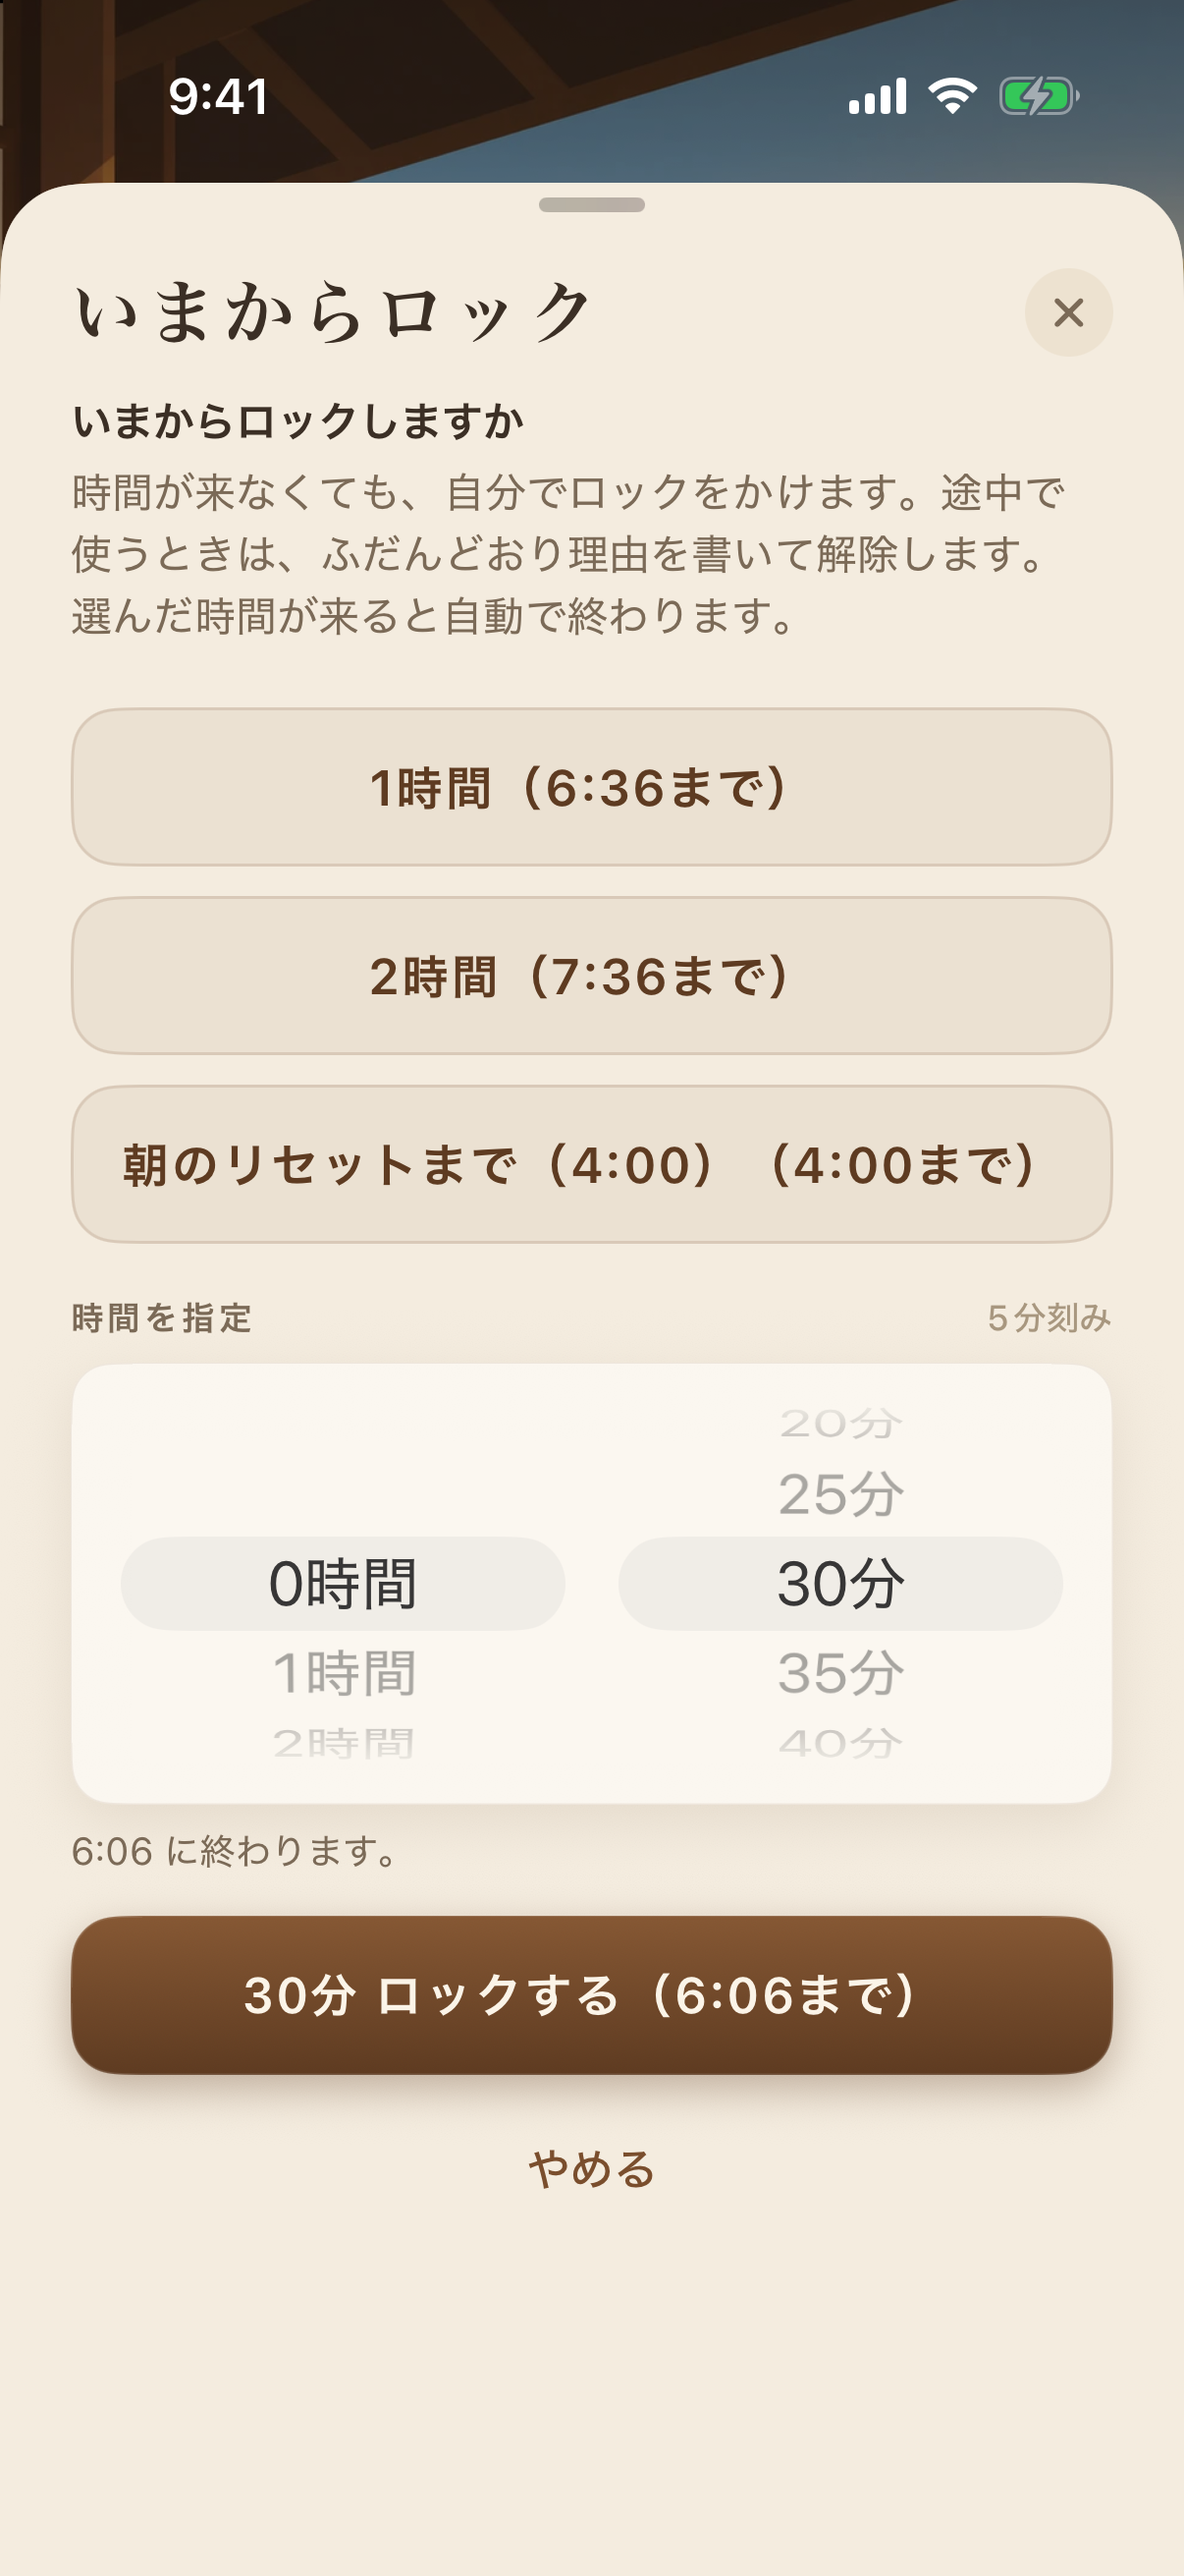
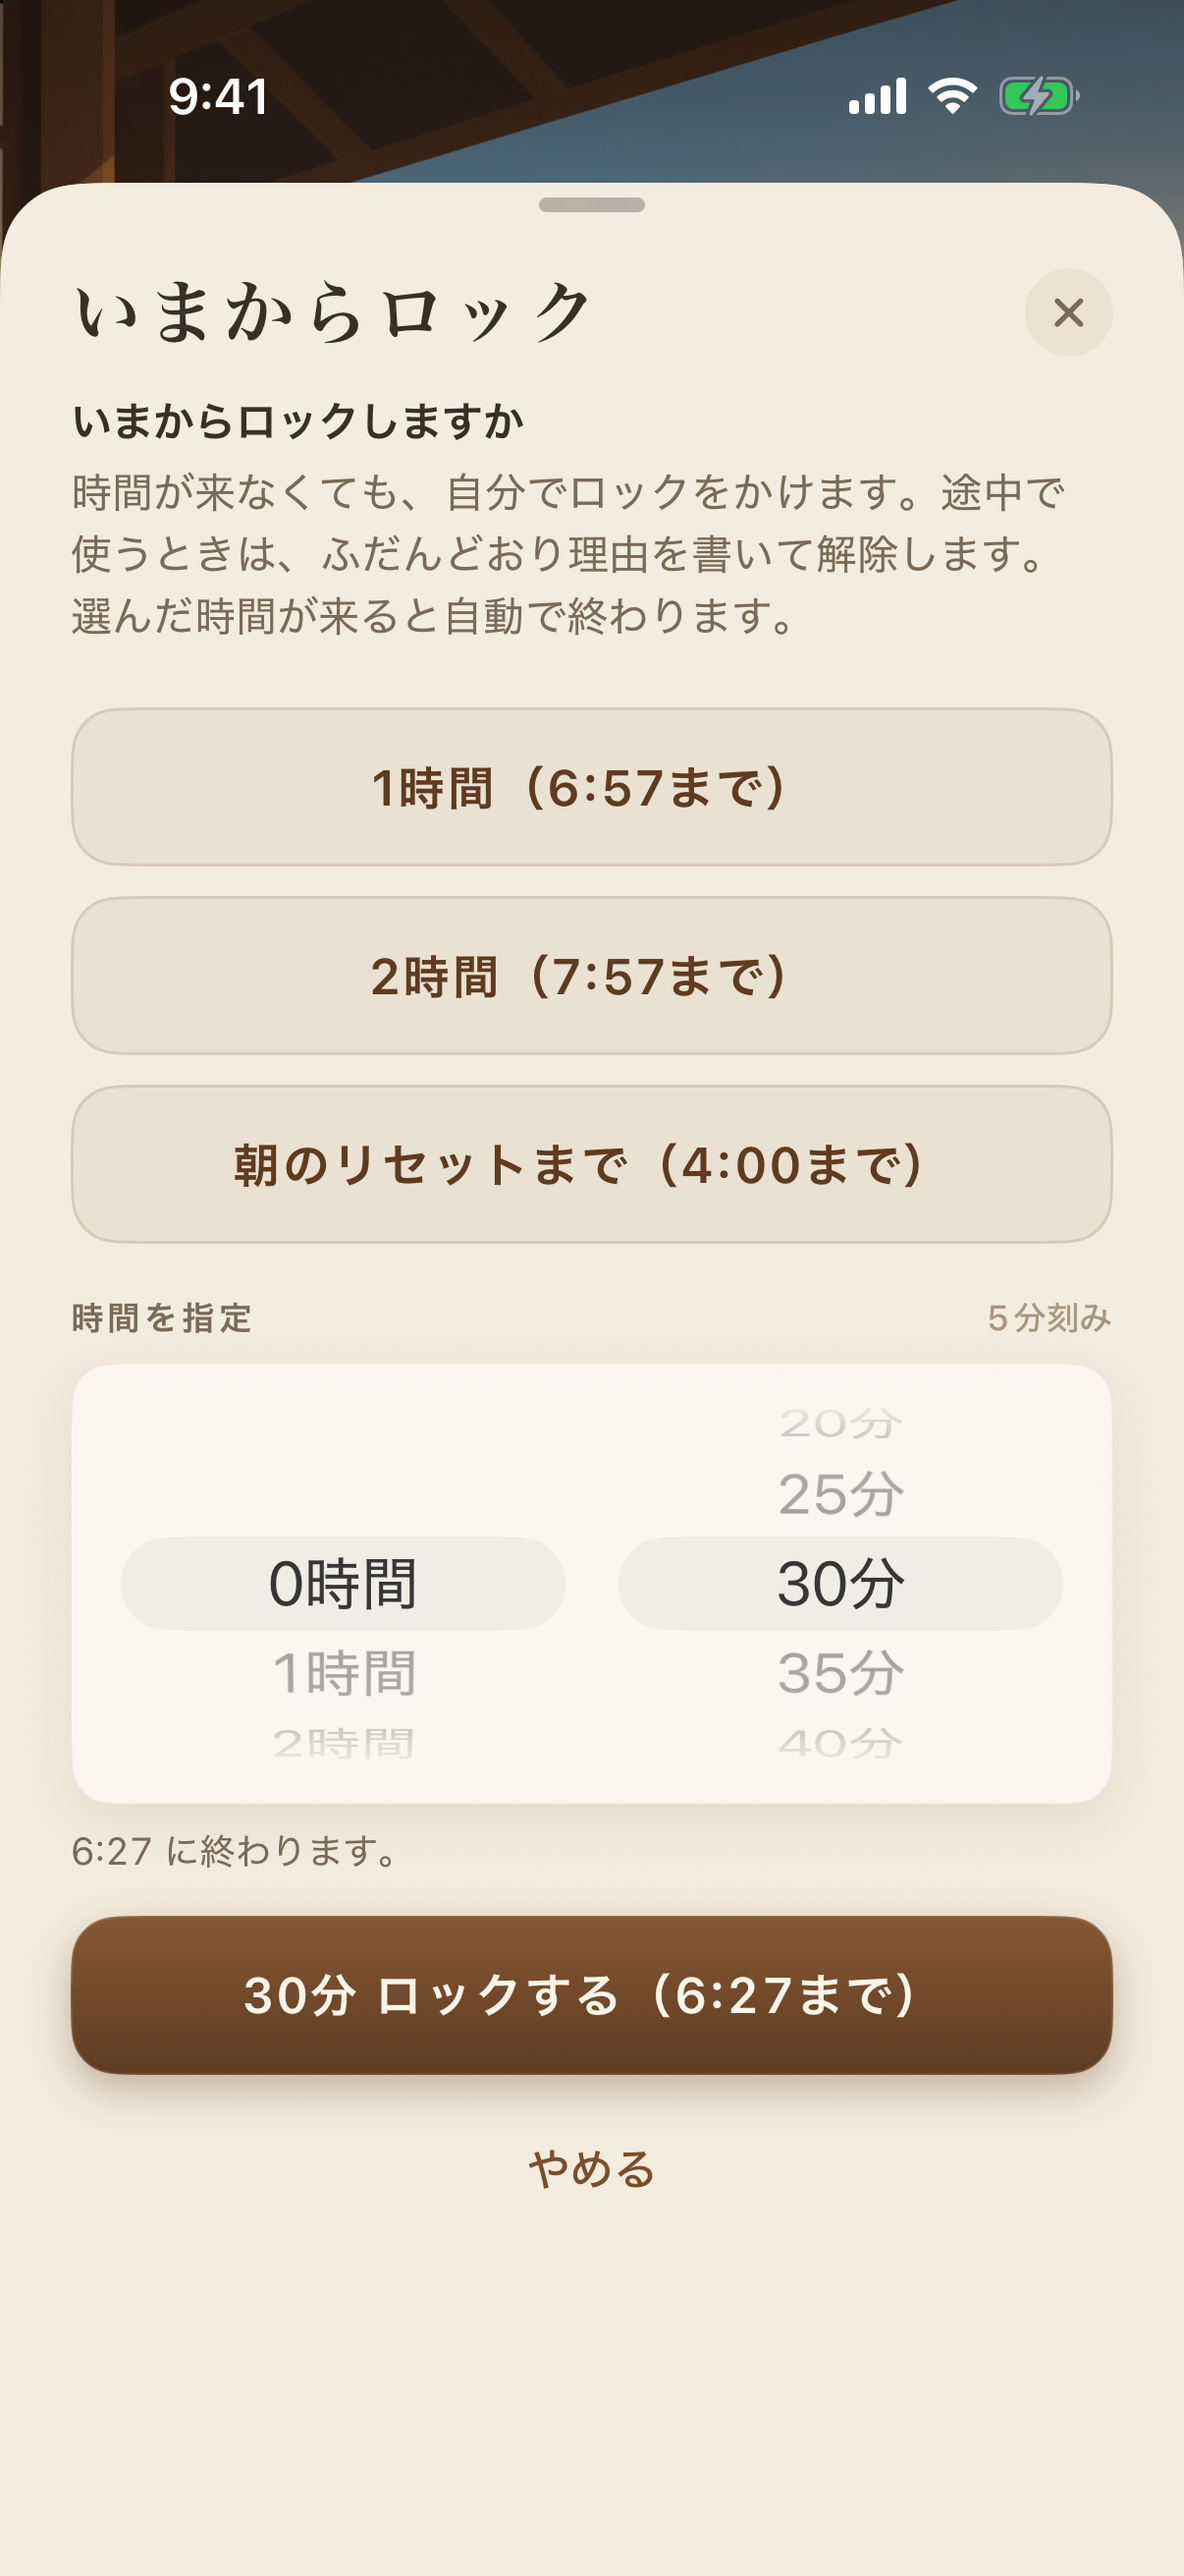
cb05f58 のレビュー指摘を直す: 使い切りの粘着・符号つきの区間差分・印の読み直しほか
- UsageState.exhaustedFor: 期間内で一度使い切ったら段の揺れで外れない（リセットで消え・枠を変えたら効かない）
- LockSpans: 区間の差分は符号つきで足し、合計だけ下限0
- reconcile: 印の直前に shield・時間解除・個別解除を読み直して effective を決め、at は note 内で取る
- LockSpans・AppUnlocks.prune: 読めないファイルは消さず、読めて壊れたものだけ消す
- 記録と開発者向けに daily の登録イベント数・使い切りの印・枠+60超の発火・ロック中の分を出す
- 「朝のリセットまで（4:00）（4:00まで）」の二重表示を直す

diff --git a/Shared/LockSpans.swift b/Shared/LockSpans.swift
@@ -12,7 +12,8 @@ import Foundation
 //     同じ向きの印が重なっても（競合で二重に書いても）、数えるときは「最初の始まり〜次の終わり」だけを使う
 //   - リセット時刻で0に戻る: 今の期間（periodStart）の印だけを数える。期間の頭でロックが効いていたかは
 //     前の期間の最後の印から決め、効いていれば 0 分から数え始める
-//   - 段階イベント（5分刻み）の値で測るので、境目で最大1刻みぶんずれる。区間ごとに下限0
+//   - 段階イベント（5分刻み）の値で測るので、境目で最大1刻みぶんずれる。差し引きの段は揺れる（許可アプリの段が
+//     先に進むと一時的に減って見える）ので、区間の差分は符号つきで足し、合計だけ下限0
 
 /// ロックの効き始め（locked=true）・外れ（false）の印
 struct LockMark: Codable, Equatable {
@@ -46,8 +47,10 @@ enum LockSpans {
         let names = (try? FileManager.default.contentsOfDirectory(atPath: d.path)) ?? []
         return names.filter { $0.hasSuffix(".json") }.compactMap { n in
             let u = d.appendingPathComponent(n)
-            guard let data = try? Data(contentsOf: u), let m = try? JSONDecoder().decode(LockMark.self, from: data) else {
-                try? FileManager.default.removeItem(at: u)   // 読めないものは捨てる
+            // 読めない（端末のロックでデータ保護がかかっている等）ものは消さずに飛ばす。読めて壊れているものだけ捨てる
+            guard let data = try? Data(contentsOf: u) else { return nil }
+            guard let m = try? JSONDecoder().decode(LockMark.self, from: data) else {
+                try? FileManager.default.removeItem(at: u)
                 return nil
             }
             return (u, m)
@@ -58,12 +61,13 @@ enum LockSpans {
     /// 全部の印（古い順）
     static var marks: [LockMark] { entries().map(\.mark) }
 
-    /// reconcile から呼ぶ。effective（ロックが効いていて、時間解除も個別解除もない）が最後の印と違えば印を書く
-    static func note(effective: Bool, usage u: UsageState, now: Date = Date(), route: String) {
+    /// reconcile から呼ぶ。effective（ロックが効いていて、時間解除も個別解除もない）が最後の印と違えば印を書く。
+    /// effective と u は呼ぶ直前に読み直したもの。印の時刻はここで取り直す
+    static func note(effective: Bool, usage u: UsageState, route: String) {
         let es = entries()
         let last = es.last?.mark.locked ?? false
         guard last != effective else { return }
-        let m = LockMark(at: ISO.string(now), periodStart: u.periodStart, locked: effective,
+        let m = LockMark(at: ISO.string(Date()), periodStart: u.periodStart, locked: effective,
                          allMin: u.allMin, allowedMin: u.allowedMin, route: route)
         guard let data = try? JSONEncoder().encode(m) else { return }
         try? data.write(to: dir.appendingPathComponent("\(UUID().uuidString).json"),
@@ -101,13 +105,14 @@ enum LockSpans {
             }
         }
         if state { total += delta(from: from, to: (u.allMin, u.allowedMin), mode: mode) }
-        return max(0, total)
+        return max(0, total)   // 下限0は合計だけ（区間ごとには切らない）
     }
 
+    /// 区間の差分（符号つき。段の揺れで負になることもあり、次の区間で打ち消し合う）
     private static func delta(from a: (all: Int, allowed: Int), to b: (all: Int, allowed: Int), mode: CountMode) -> Int {
         switch mode {
-        case .inclusive: return max(0, b.all - a.all)
-        case .excludeAllowed: return max(0, (b.all - b.allowed) - (a.all - a.allowed))
+        case .inclusive: return b.all - a.all
+        case .excludeAllowed: return (b.all - b.allowed) - (a.all - a.allowed)
         }
     }
 }

diff --git a/Shared/Quota.swift b/Shared/Quota.swift
@@ -39,6 +39,9 @@ struct UsageState: Codable, Equatable {
     var allowedMin = 0
     /// ちょうど枠の時間のイベント quota が発火したときの枠（inclusive 用。枠を変えたら効かない）
     var quotaHitFor: Int?
+    /// 期間内で一度でも枠を使い切ったときの枠（段の揺れ・ロック中の差し引きで used が下がっても使い切りのまま。
+    /// リセットで消え、枠を変えたら効かない。quotaHitFor と同じ扱い）
+    var exhaustedFor: Int?
     var updatedAt: String?
 }
 
@@ -82,9 +85,10 @@ enum Quota {
         case .inclusive:
             // 段階より正確な quota イベントを優先（ただし quota は全使用で発火するので、ロック中の分を
             // 差し引いているときは使えない）。段階の値でも超えていれば使い切り
-            return (u.quotaHitFor == s.quotaMinutes && locked == 0) || used >= s.quotaMinutes
+            return u.exhaustedFor == s.quotaMinutes
+                || (u.quotaHitFor == s.quotaMinutes && locked == 0) || used >= s.quotaMinutes
         case .excludeAllowed:
-            return used >= s.quotaMinutes
+            return u.exhaustedFor == s.quotaMinutes || used >= s.quotaMinutes
         }
     }
 
@@ -207,10 +211,15 @@ enum Quota {
         if raw == quotaEvent.rawValue { u.quotaHitFor = s.quotaMinutes }
         else if raw.hasPrefix("all-") { u.allMin = max(u.allMin, k) }
         else { u.allowedMin = max(u.allowedMin, k) }
-        saveUsage(u)
         let after = isExhausted(u, settings: s)
+        // 一度使い切ったら、この期間・この枠のあいだは使い切りのまま（段の揺れでロックが外れないように）
+        if after { u.exhaustedFor = s.quotaMinutes }
+        saveUsage(u)
+        // 枠+60分を越えた all-k の発火（細かい段を延ばした分が実機で届いているかを見る印）
+        let beyond = raw.hasPrefix("all-") && k > s.quotaMinutes + 60
         Log.add(kind: after && !before ? "quotaExhausted" : "quotaEvent", route: "daily", ok: true,
-                detail: "\(raw) used=\(usedMinutes(u, mode: s.countMode)) quota=\(s.quotaMinutes) mode=\(s.countMode.rawValue)")
+                detail: "\(raw) used=\(usedMinutes(u, mode: s.countMode)) locked=\(lockedMinutes(u, mode: s.countMode)) quota=\(s.quotaMinutes) mode=\(s.countMode.rawValue) step=\(registeredStep.map(String.init) ?? "-")"
+                    + (beyond ? " 枠+60超" : ""))
     }
 
     /// 試験2 の「E-all 到達でロック」用。今の枠で使い切った印を付ける
@@ -241,6 +250,7 @@ enum Quota {
                     try center.startMonitoring(.daily, during: sch, events: ev)
                     Store.setString("dailyResetMinutes", String(r))
                     Store.setString("dailyStep", String(step))
+                    Store.setString("dailyEvents", String(ev.count))
                     Log.add(kind: "arm", route: "daily", ok: errs.isEmpty, error: errs.isEmpty ? nil : errs.joined(separator: " / "),
                             detail: "\(reason) reset=\(AppSettings.clock(r)) step=\(step) events=\(ev.count) quota=\(s.quotaMinutes) mode=\(s.countMode.rawValue)")
                     return nil
@@ -260,6 +270,8 @@ enum Quota {
     }
 
     static var registeredStep: Int? { Int(Store.string("dailyStep") ?? "") }
+    /// 登録できた daily のイベント数（開発者向けに出す）
+    static var registeredEventCount: Int? { Int(Store.string("dailyEvents") ?? "") }
 
     private static func schedule(reset: Int) -> DeviceActivitySchedule {
         let end = (reset + 1439) % 1440   // リセットの1分前

diff --git a/Shared/AppUnlocks.swift b/Shared/AppUnlocks.swift
@@ -93,13 +93,15 @@ enum AppUnlocks {
         Set(active(now).map(\.token))
     }
 
-    /// 期限が now 以前のファイルを消す（読めないファイルも消す）。消したアプリの数
+    /// 期限が now 以前のファイルを消す（壊れたファイルも消す）。消したアプリの数
     @discardableResult
     static func prune(before now: Date) -> Int {
         let fm = FileManager.default
         var removed = Set<Data>()
         for u in files() {
-            guard let d = try? Data(contentsOf: u), let v = try? JSONDecoder().decode(AppUnlock.self, from: d) else {
+            // 読めない（データ保護がかかっている等）ものは消さずに飛ばす。読めて壊れているものだけ消す
+            guard let d = try? Data(contentsOf: u) else { continue }
+            guard let v = try? JSONDecoder().decode(AppUnlock.self, from: d) else {
                 try? fm.removeItem(at: u)
                 continue
             }
@@ -192,7 +194,7 @@ enum SelfLock {
             switch self {
             case .oneHour: return "1時間"
             case .twoHours: return "2時間"
-            case .untilReset: return "朝のリセットまで（\(AppSettings.clock(Quota.effectiveResetMinutes))）"
+            case .untilReset: return "朝のリセットまで"
             }
         }
     }

diff --git a/Shared/Shield.swift b/Shared/Shield.swift
@@ -196,7 +196,12 @@ enum Shield {
         // ロック中の使用を数えないための印（効き始め・外れ。LockSpans）。個別解除があるあいだは、
         // どのアプリの使用か分けられないので「外れている」として数える
         let active = AppUnlocks.active(now)
-        LockSpans.note(effective: now2 && shouldLock && active.isEmpty, usage: Quota.usage(now), now: now, route: route)
+        // 印の直前に読み直す（ここまでの間に別のプロセスが時間解除・個別解除を入れていたら、効いていない扱い）
+        let t = Date()
+        let effective = shouldLock && isShielded
+            && (Store.unlockUntil.map { $0 <= t } ?? true)
+            && AppUnlocks.active(t).isEmpty
+        LockSpans.note(effective: effective, usage: Quota.usage(t), route: route)
         // 期限の目覚まし（変わったときだけ登録し直す）
         Wake.armExpiryWakes(route: route)
         let st = LockStatus(locked: shouldLock, reason: reason, unlockUntil: until.map(ISO.string),

diff --git a/App/DeveloperView.swift b/App/DeveloperView.swift
@@ -47,6 +47,8 @@ struct DeveloperView: View {
                 LabeledContent("枠に数える分", value: "\(model.usedMinutes) 分")
                 LabeledContent("quota の発火", value: model.usage.quotaHitFor.map { "枠 \($0) 分で発火" } ?? "まだ")
                 LabeledContent("刻み・実際のリセット", value: "\(Quota.registeredStep.map(String.init) ?? "—") 分・\(AppSettings.clock(Quota.effectiveResetMinutes))")
+                LabeledContent("登録したイベント数", value: Quota.registeredEventCount.map { "\($0) 件" } ?? "—")
+                LabeledContent("使い切りの印", value: model.usage.exhaustedFor.map { "枠 \($0) 分で使い切り" } ?? "まだ")
                 Button("枠の監視（daily）を登録し直す") { model.armDaily() }
                 if !model.dailyResult.isEmpty { Text(model.dailyResult).font(.footnote) }
             }
